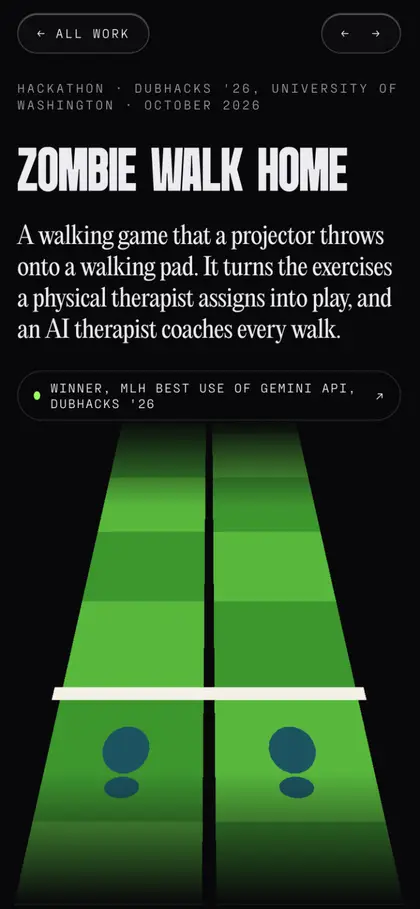
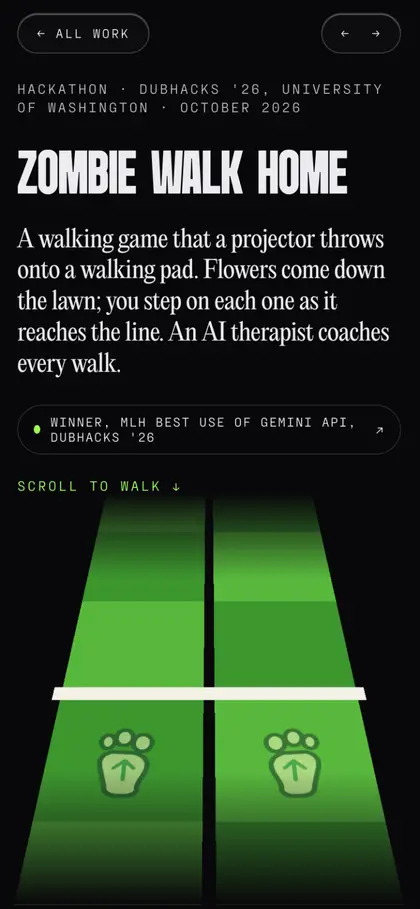
docs(case): the second pass, written down; the hero wheel's shot retaken
- The page's header and docs/zombie-walk-home-plan.md say what changed on
  2026-11-13 and why, and where the drawing and the sprites come from.
- public/shots: the wheel's shot of the page retaken from the preview of
  1f29387 (390x844 frame, top of the page), same treatment as before.

diff --git a/docs/zombie-walk-home-plan.md b/docs/zombie-walk-home-plan.md
@@ -54,6 +54,25 @@ No runway. The hero is a still of round two, a step just landed
   half the pixels, and no text over the canvas there.
 - No sky: the camera looks at the floor, as the projector does.
 
+## Second pass (2026-11-13): readable, and the game's own characters
+
+The owner on the first version: it must be clear what is happening, and
+easy to read.
+
+- Flowers, footprints and the cottage are the game's own SVGs (copies in
+  `public/projects/zombie-walk-home/art`), as textures in the scene and as
+  inlined symbols in the posters. A flower stands on the lawn facing the
+  walker; a step puts it over on its back.
+- A flower comes out of the dark by opacity (`flowerShown`), in the scene
+  and in the poster alike, so the two still agree.
+- Per-frame writes added: twelve material opacities (the flowers), two more
+  (the prints). Removed: the instance matrix and colour writes.
+- New section "What you are looking at": a drawing of the rig (Higgsfield,
+  `gpt_image_2_6`, 0.5 credits for two variants, the owner picked the
+  first) with five numbered pins placed by eye.
+- Hero: "Scroll to walk", two tags on the picture (desktop), an icon beside
+  each of the walk's five lines, larger small type on the whole page.
+
 ## Not verified
 
 - Real Safari on an iPhone (the PR lists the checks).
